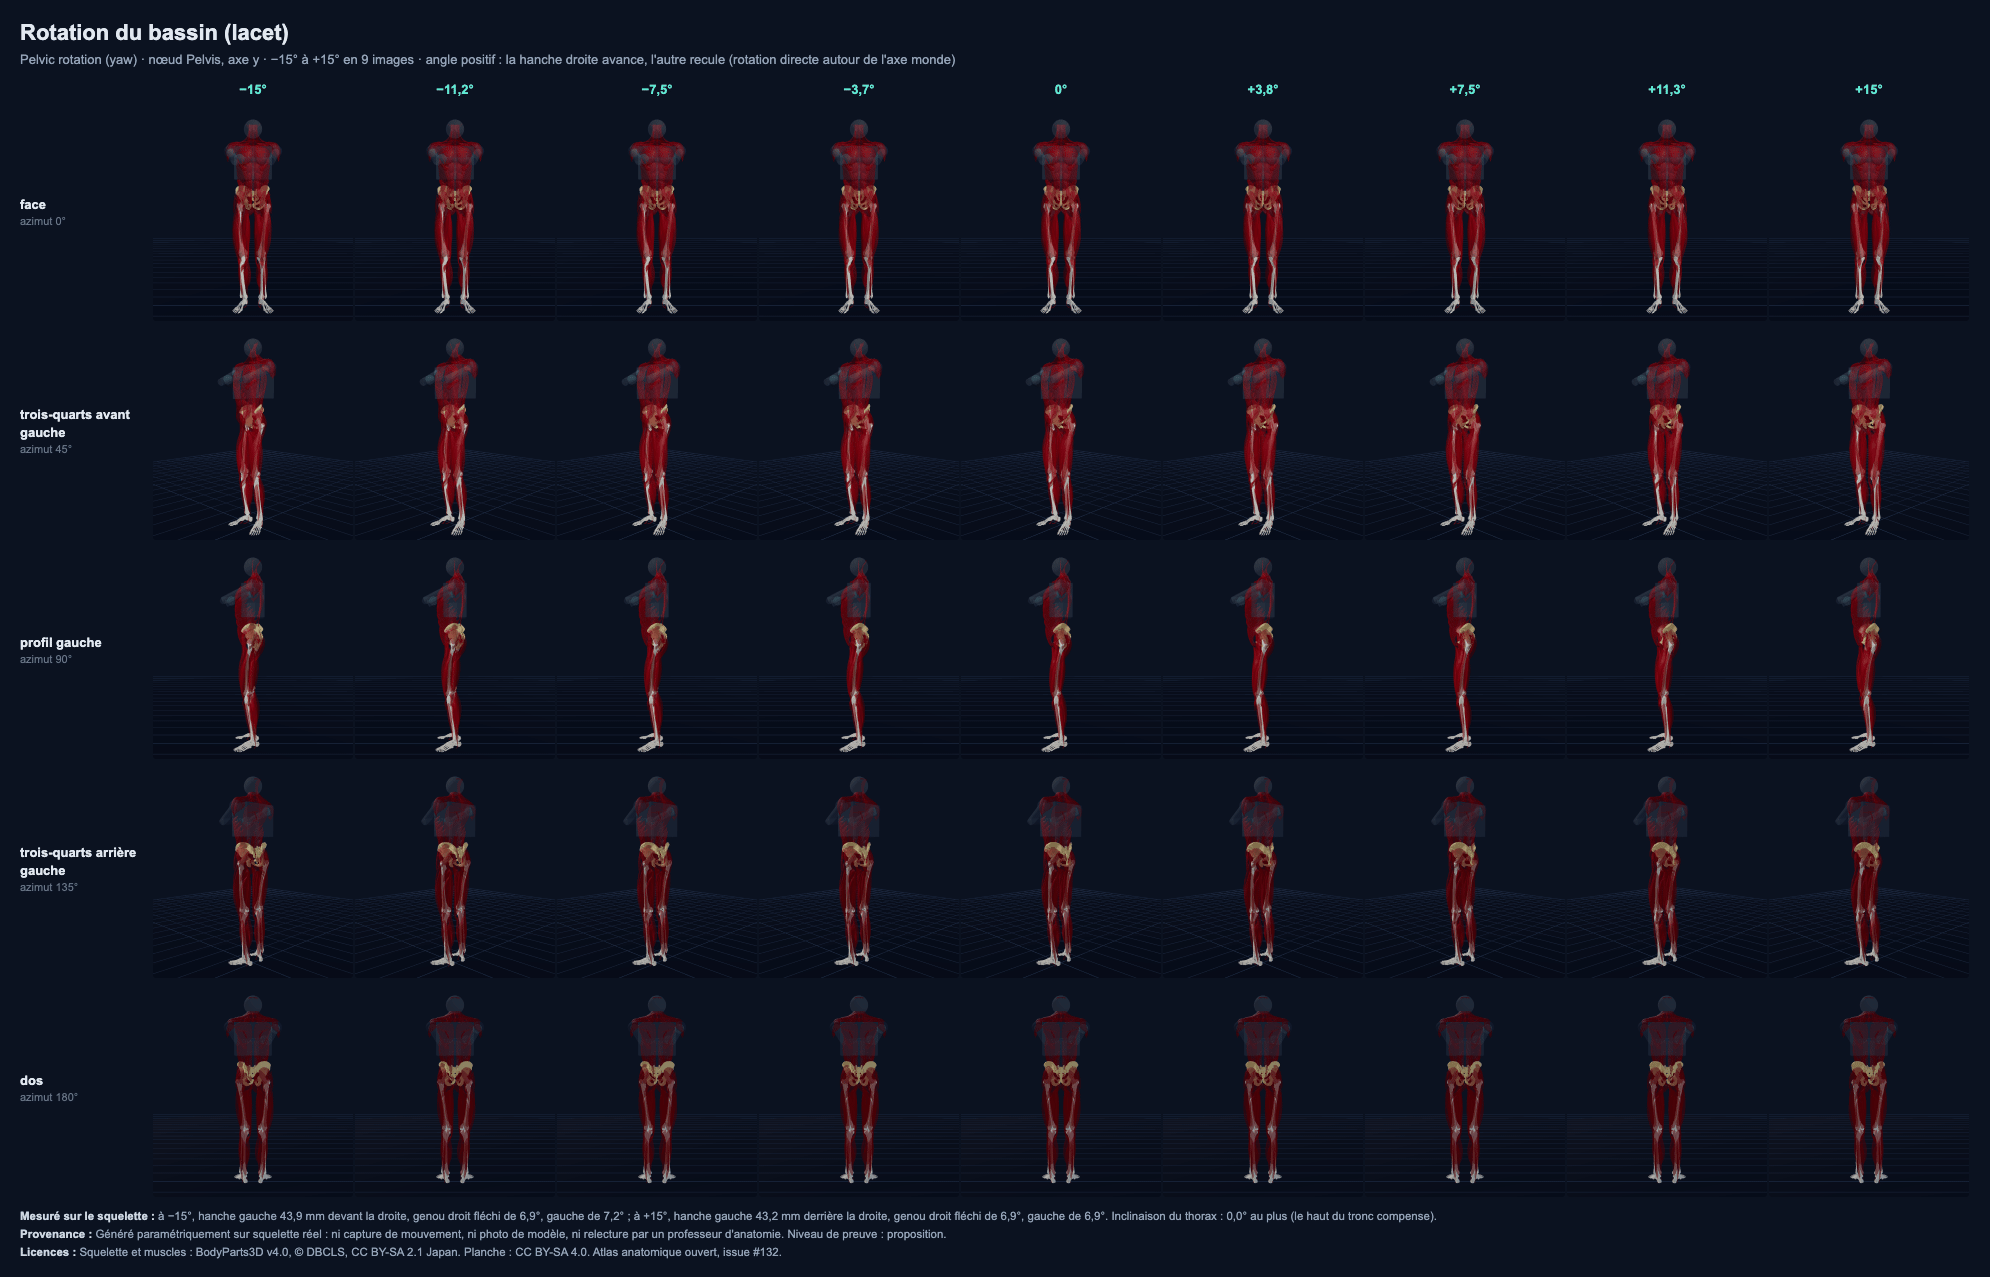
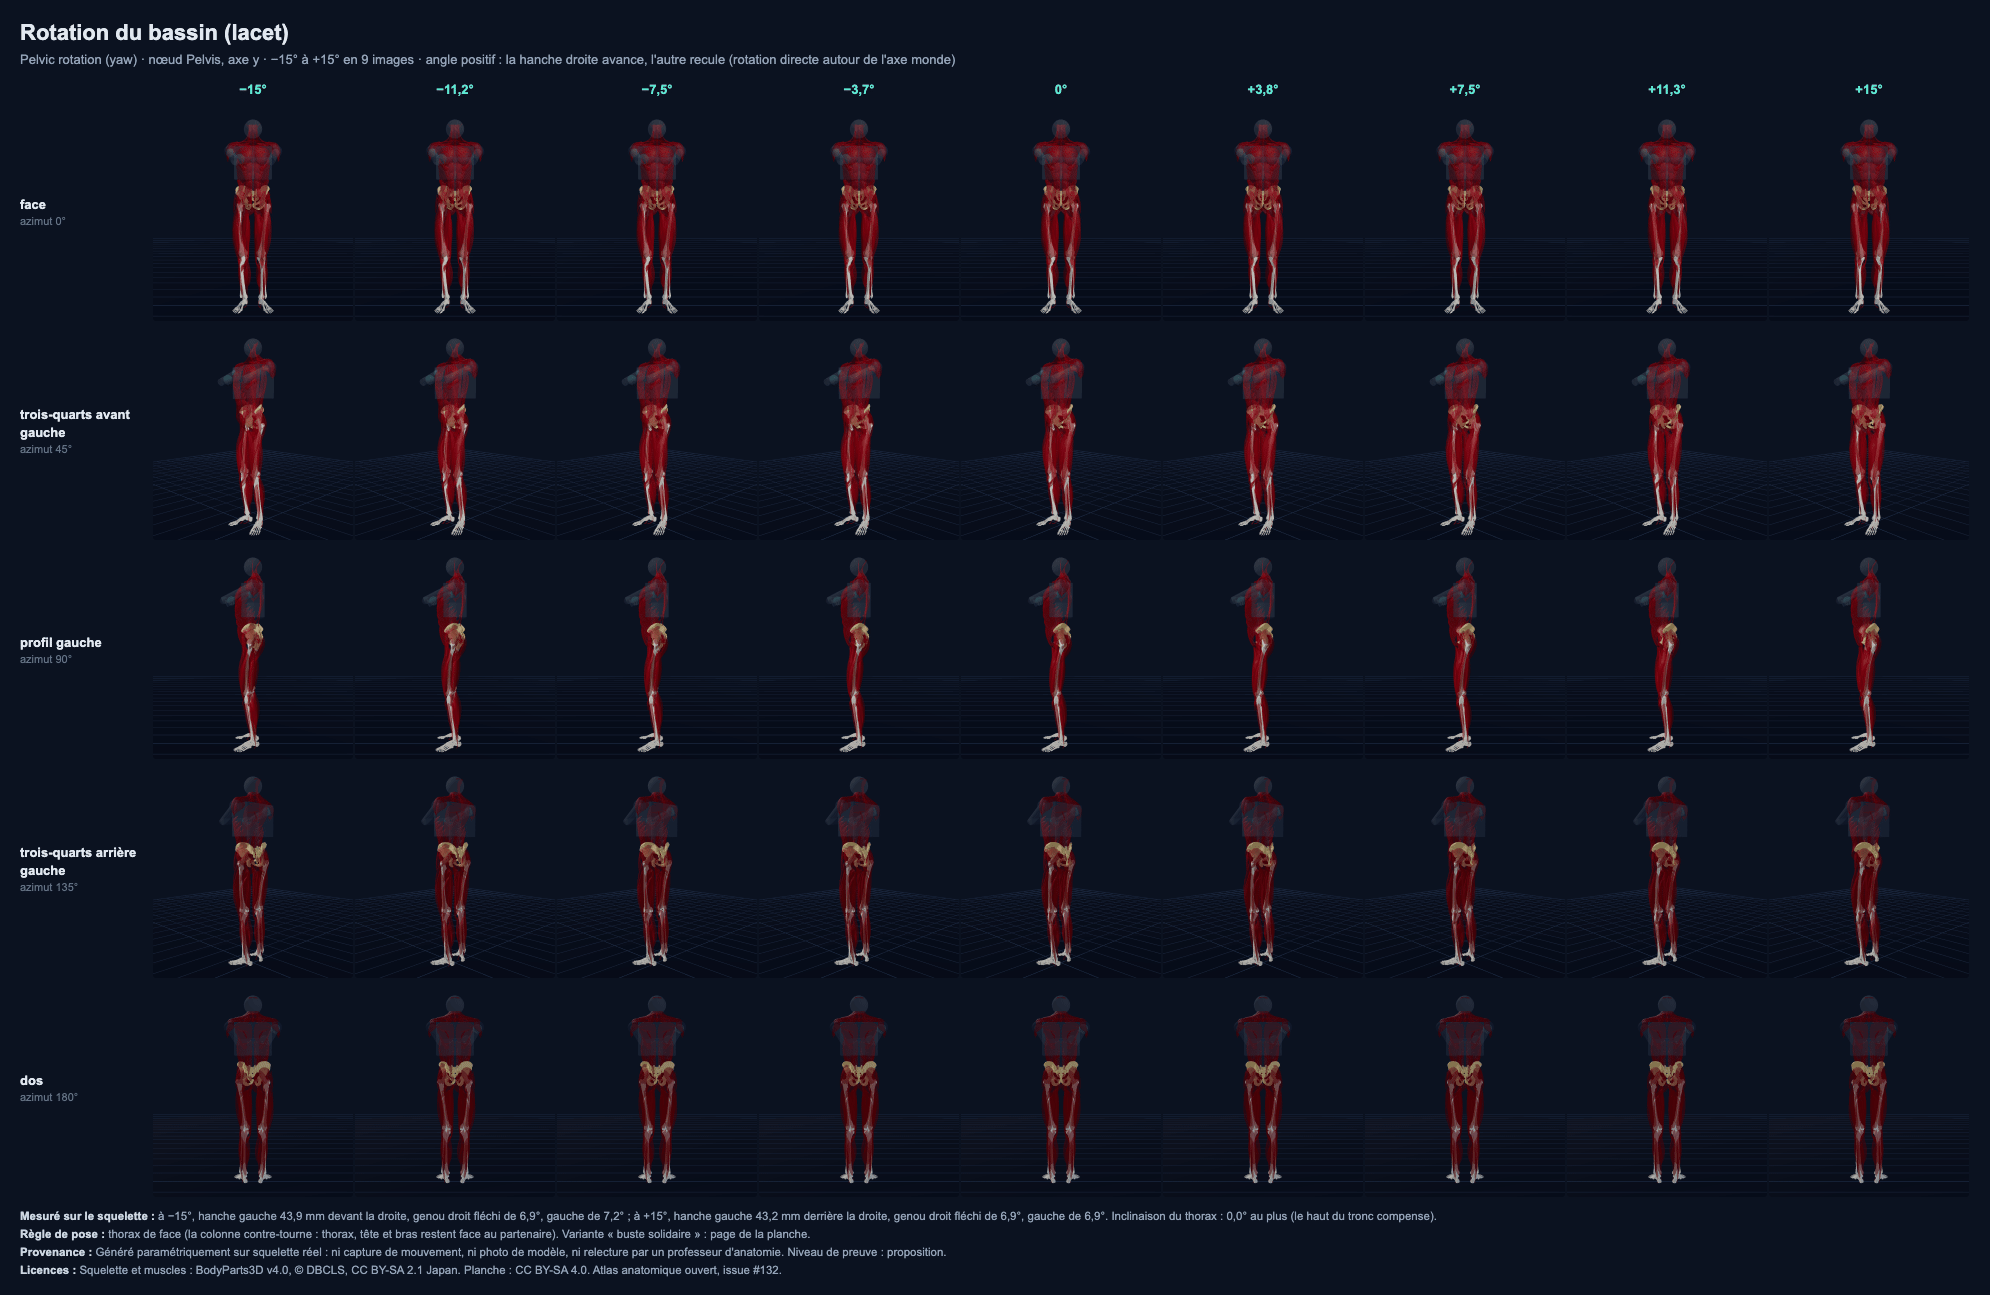
feat(#132): élection de la rotation du bassin, thorax de face (A) ou buste solidaire (B)
Variante « solidaire » dans applyAtlasPose (pas de contre-rotation de la
colonne), mesure thoraxLacetDeg, présentation du GIF propre à chaque
élection, GIF docs/gifs/election-rotation-buste.gif, page
docs/elections/rotation-buste.md, test sur le GLB (section 6). La planche
bassin-rotation garde sa règle ; seuls meta.json, sa page et planche.png
nomment la règle et la variante.

Refs #132

diff --git a/src/atlas.ts b/src/atlas.ts
@@ -53,6 +53,16 @@ export const ATLAS_ELECTIONS: Record<string, AtlasElection> = {
     // Vote du propriétaire, 21 novembre 2026 : « pour la danse on veut B ».
     retenue: "chevauchement",
   },
+  "bassin-rotation": {
+    id: "rotation-buste",
+    question: "Rotation du bassin : le buste tourne-t-il avec lui ?",
+    regles: [
+      { id: "thorax-face", lettre: "A", label: "thorax de face", regle: "la colonne contre-tourne : thorax, tête et bras restent face au partenaire" },
+      { id: "solidaire", lettre: "B", label: "buste solidaire", regle: "pas de contre-rotation : tout le haut du corps tourne avec le bassin" },
+    ],
+    // Règle de la planche depuis D13 ; élection D16 ouverte le 22 novembre 2026, vote attendu.
+    retenue: "thorax-face",
+  },
 };
 /** La règle de pose demandée : la règle retenue sans variante, la règle nommée sinon ; ou la raison du refus.
  * `regle` vaut `null` pour un mouvement sans élection ; `variante` dit si elle diffère de la règle retenue. */
@@ -90,7 +100,7 @@ export function applyAtlasPose(r: RigHandle, model: PoseModel, m: AtlasMouvement
     return applyPose(r, model, 0, {
       neutral: true, amp: 0, travel: 0, plant: true, iso: true, cadre: true,
       pelvisOffset: { position: [0, 0, 0], rotation },
-      trunkOffset: m.axeLocal === "y" ? [0, -radians, 0, 0, 0, 0, 0, 0, 0] : null,
+      trunkOffset: m.axeLocal === "y" && choix.regle?.id !== "solidaire" ? [0, -radians, 0, 0, 0, 0, 0, 0, 0] : null,
       rootOffset: abaissement ? { x: 0, z: 0, y: abaissement } : null,
     });
   };
@@ -139,6 +149,8 @@ export interface AtlasMesure {
   thoraxDeg: number;
   /** Rotation (°) du thorax par rapport à la pose neutre, tous axes confondus. */
   thoraxRotationDeg: number;
+  /** Lacet signé (°) du thorax autour de la verticale monde, par rapport à la pose neutre (D16). */
+  thoraxLacetDeg: number;
   /** Hauteur monde du centre du bassin (mm). */
   bassinMm: number;
 }
@@ -146,6 +158,7 @@ export interface AtlasMesure {
 /** Mesures sur le rig tel que posé par `applyAtlasPose` (matrices monde finales). */
 export function measureAtlasPose(r: RigHandle, m: AtlasMouvement, reference: AtlasReference, stats: PoseStats): AtlasMesure {
   r.root.updateWorldMatrix(true, true);
+  const thorax = r.chest.getWorldQuaternion(new THREE.Quaternion());
   const relative = atlasNode(r, m).getWorldQuaternion(new THREE.Quaternion()).multiply(reference.quaternion.clone().invert());
   if (relative.w < 0) relative.set(-relative.x, -relative.y, -relative.z, -relative.w);
   const v = new THREE.Vector3(relative.x, relative.y, relative.z);
@@ -163,7 +176,11 @@ export function measureAtlasPose(r: RigHandle, m: AtlasMouvement, reference: Atl
     sacrum: [sacrum.x, sacrum.y, sacrum.z],
     genouDeg: { R: stats.kneeR, L: stats.kneeL },
     thoraxDeg: stats.trunkTilt,
-    thoraxRotationDeg: r.chest.getWorldQuaternion(new THREE.Quaternion()).angleTo(reference.thorax) * 180 / Math.PI,
+    thoraxRotationDeg: thorax.angleTo(reference.thorax) * 180 / Math.PI,
+    thoraxLacetDeg: (() => {
+      const q = thorax.clone().multiply(reference.thorax.clone().invert());
+      return 2 * Math.atan2(q.y, q.w) * 180 / Math.PI;
+    })(),
     bassinMm: (r.pelvis as THREE.Object3D).getWorldPosition(new THREE.Vector3()).y * 1000,
   };
 }

diff --git a/docs/elections/rotation-buste.md b/docs/elections/rotation-buste.md
@@ -1,0 +1,78 @@
+# Élection — rotation du bassin : thorax de face ou buste solidaire (#132)
+
+[Accueil](../../README.md) · [Atlas anatomique](../atlas/README.md) · [Spécification, D16](../spec-atlas-anatomique.md) ·
+[Planche](../atlas/mouvements/bassin-rotation/README.md) ·
+[Élection précédente : obliquité](obliquite-genoux.md) ·
+[Issue #132](https://github.com/arcodange-org/dance-hips-movement-3D-comparison/issues/132)
+
+Même format que l'élection de l'obliquité : les deux règles côte à côte dans un seul GIF, même
+caméra, même angle de bassin. Préparée avec l'accord du propriétaire (« Oui », 22 novembre 2026).
+
+**Vote attendu.** Tant qu'il n'est pas rendu, la planche reste posée en A.
+
+## La question
+
+Debout, pieds à plat, le bassin tourne autour de la verticale, de −15° à +15° : une hanche avance,
+l'autre recule. Que fait le buste ?
+
+![A, thorax de face, et B, buste solidaire, côte à côte](../gifs/election-rotation-buste.gif)
+
+| A — thorax de face (la planche aujourd'hui) | B — buste solidaire |
+| --- | --- |
+| Le dos se tord : le thorax, la tête et les bras restent face au partenaire. | Le dos ne se tord pas : tout le haut du corps tourne avec le bassin. |
+| Seul le bassin tourne, sous un buste immobile. | Le cadre des bras tourne de 15° avec les hanches. |
+| Les hanches et le dos se partagent la rotation. | Les hanches absorbent seules la rotation, pieds plantés. |
+
+Sous chaque colonne : de combien le bassin a tourné, de combien le thorax a tourné par rapport à la
+pose de départ, et la torsion du dos (la différence des deux).
+
+## Mesures sur le squelette
+
+| Bassin | A : thorax tourné | A : torsion du dos | B : thorax tourné | B : torsion du dos | Hanche gauche (A et B) |
+| --- | --- | --- | --- | --- | --- |
+| −15° | 0° | 15° | 15° | 0° | 43,9 mm devant la droite |
+| −7,5° | 0° | 7,5° | 7,5° | 0° | 22,3 mm devant |
+| 0° | 0° | 0° | 0° | 0° | 0,4 mm devant |
+| +7,5° | 0° | 7,5° | 7,5° | 0° | 21,6 mm derrière |
+| +15° | 0° | 15° | 15° | 0° | 43,2 mm derrière |
+
+- Le bassin, les hanches, les genoux (6,9° à 7,2°) et les pieds sont les mêmes dans les deux règles.
+  Seul le haut du corps change.
+- En B, le thorax ne tourne qu'autour de la verticale : il ne penche ni ne bascule.
+
+## Ma proposition
+
+**A.** L'objectif premier du projet est de voir les isolations du bas du corps : le bassin bouge,
+le haut du tronc reste posé. En couple, le cadre des bras garde le contact face au partenaire
+pendant que les hanches tournent dessous. Le prix : le dos se tord de 15° aux bornes.
+
+C'est mon avis sur le modèle, pas un fait d'anatomie : aucune des deux règles n'est mesurée sur
+une personne, et le modèle ne dit pas comment une colonne réelle répartit la torsion entre ses
+vertèbres.
+
+## Ce que le choix entraîne
+
+Écrit avant le vote :
+
+- **A élu** : rien ne change. La variante B et ce GIF restent montrés sur la planche.
+- **B élu** : B devient la règle de la planche `bassin-rotation`. La planche est régénérée (53
+  fichiers) et ses limites disent que le buste tourne avec le bassin. A reste montrée en variante.
+
+Le comparateur des styles n'est pas modifié par ce vote ; il est seulement noté dans les règles du
+propriétaire.
+
+## Ce que valent ces images
+
+- Les deux règles passent les mêmes contrôles sur le squelette réel
+  (`scripts/test_atlas_planches.mjs`) : même angle de bassin, mêmes hanches, pieds plantés, os
+  au-dessus du sol ; en A le thorax reste immobile, en B il tourne exactement avec le bassin.
+- Voir dans l'app : A, la règle de la planche, `?atlas=bassin-rotation` ; B, la variante,
+  `?atlas=bassin-rotation&variante=solidaire` (ajouter `&vue=troisQuarts` ou `&frame=0` à `8`).
+- Refaire le GIF : `npm run build && node scripts/capture_atlas.mjs --mouvement bassin-rotation --variante solidaire`.
+- Squelette et muscles : BodyParts3D v4.0, © DBCLS, CC BY-SA 2.1 Japan. Images générées
+  paramétriquement : ni capture de mouvement, ni photo de modèle, ni relecture par un professeur
+  d'anatomie.
+
+## Résultat
+
+À venir : le vote et le commentaire du propriétaire, recopiés mot pour mot.

diff --git a/docs/atlas/mouvements/bassin-rotation/README.md b/docs/atlas/mouvements/bassin-rotation/README.md
@@ -34,6 +34,14 @@ Mesures prises sur le GLB réel posé par le moteur de l'application, hors navig
 
 Hanche : avancée du centre articulaire gauche par rapport au droit (positif : gauche devant). Genou : flexion, 0° = jambe tendue. Thorax : inclinaison par rapport à la verticale.
 
+## Règle de pose et variante
+
+- Règle de la planche : **thorax de face** (A). La colonne contre-tourne : thorax, tête et bras restent face au partenaire.
+- Variante : buste solidaire (B). Pas de contre-rotation : tout le haut du corps tourne avec le bassin. Dans l'application : `?atlas=bassin-rotation&vue=face&frame=4&frames=9&muscles=1&variante=solidaire`.
+- Choix du propriétaire : [élection](../../../../docs/elections/rotation-buste.md).
+
+![Rotation du bassin : le buste tourne-t-il avec lui ?](../../../../docs/gifs/election-rotation-buste.gif)
+
 ## Vues animées
 
 | Face | Trois-quarts avant gauche | Profil gauche | Trois-quarts arrière gauche | Dos |
@@ -48,7 +56,7 @@ Vue en direct dans l'application : `?atlas=bassin-rotation&vue=face&frame=4&fram
 - Illustratif : aucune validation médicale ni chorégraphique.
 - Pose neutre du moteur : pieds à l'écartement et à l'ouverture natifs du squelette, genoux fléchis d'au moins 0,12 rad par l'IK (jambe jamais verrouillée).
 - Bassin en chaîne fermée, pieds plantés : les pieds ne pivotent pas, les hanches absorbent la rotation.
-- Le thorax reste de face parce que la colonne contre-tourne du même angle. C'est une règle propre à l'atlas : l'isolation du comparateur compense le roulis et le tangage du bassin, pas le lacet.
+- Le thorax reste de face parce que la colonne contre-tourne du même angle. C'est une règle propre à l'atlas : l'isolation du comparateur compense le roulis et le tangage du bassin, pas le lacet. La variante « buste solidaire », où tout le haut du corps tourne avec le bassin, est montrée dans la section « Règle de pose et variante » ; le choix revient au propriétaire.
 - Buste et bras : volumes stylisés, pas un maillage anatomique. Le haut du tronc compense le bassin (iso=1), bras en cadre de danse.
 
 ## Licences

diff --git a/docs/TASKS.md b/docs/TASKS.md
@@ -309,7 +309,7 @@ Réf : `docs/retrospective-phase3-5.md` (pièges, raccourcis à tort, process am
   - [x] Mesures ajoutées à `meta.json` (avancée des hanches, sacrum, rotation du thorax tous axes), repère de position et limites par axe ; `bassin-obliquite` recalculée par `--meta-seul`.
   - [x] Test : deux vecteurs liés au bassin en rotation rigide, repère et signe par planche, axe erroné détecté, thorax immobile sur les trois axes.
 - [ ] Élection par le propriétaire, rotation du bassin : thorax de face (versionné, proposition) ou buste solidaire du bassin (GIF des deux variantes montrés le 21 novembre 2026 ; la variante non retenue n'est pas versionnée).
-  - [ ] Élection en format A/B (D16, accord du 22 novembre 2026 : « Oui ») : variante `solidaire` dans le moteur, GIF `docs/gifs/election-rotation-buste.gif`, page `docs/elections/rotation-buste.md`, test sur le GLB.
+  - [x] Élection en format A/B (D16, accord du 22 novembre 2026 : « Oui ») : variante `solidaire` dans le moteur, GIF `docs/gifs/election-rotation-buste.gif`, page `docs/elections/rotation-buste.md`, test sur le GLB.
 - [x] Variante « genoux chevauchés » de l'obliquité produite à la demande du propriétaire (« Oui, produis-la », 21 novembre 2026) : [spec D14](spec-atlas-anatomique.md), [page d'élection](elections/obliquite-genoux.md).
   - [x] Branche remise à jour sur `main` (troisième et quatrième fusions, sans réécriture d'historique).
   - [x] `applyAtlasPose(…, variante)` dans `src/atlas.ts` ; vue `?atlas=bassin-obliquite&variante=<règle>`. Sans variante, URL et clé de rendu inchangées.

diff --git a/CONTEXT.md b/CONTEXT.md
@@ -63,10 +63,14 @@ jambes ne bougent pas).
   8 », lisible dans les trois plans, alors que chaque planche fait un aller-retour sur un axe. Le
   « 8 » est le chantier #159 (PR #160, sa propre élection) : l'atlas n'en produit pas de planche.
   Le vote B lui a été transmis ; dans l'atlas, « relais » nomme la règle non retenue.
-- Une élection attend encore le propriétaire. Rotation : thorax de face (versionné) ou buste
-  solidaire (GIF montrés, non versionnés).
-- `main` a été fusionné cinq fois dans la branche (conflits : `package.json`, `README.md`,
-  `docs/TASKS.md`, `CONTEXT.md`, `src/main.tsx`, `src/pose.ts` ; garder les deux côtés). Dans
+- **Rotation : élection ouverte, vote attendu** (D16, accord du 22 novembre 2026 : « Oui »). A thorax
+  de face (règle de la planche, ma proposition) ou B buste solidaire, variante
+  `?atlas=bassin-rotation&variante=solidaire`, GIF `docs/gifs/election-rotation-buste.gif`, page
+  [`docs/elections/rotation-buste.md`](docs/elections/rotation-buste.md). Mesure `thoraxLacetDeg`
+  ajoutée au module (non sérialisée). Présentation du GIF propre à chaque élection
+  (`PRESENTATIONS` dans `scripts/capture_atlas.mjs`).
+- `main` a été fusionné six fois dans la branche (conflits : `package.json`, `README.md`,
+  `docs/TASKS.md`, `CONTEXT.md`, `src/main.tsx`, `src/pose.ts`, `docs/regles-proprietaire.md` ; garder les deux côtés). Dans
   `src/pose.ts`, l'option `neutral` de l'atlas et le ginga de #157 s'ajoutent au même endroit.
 
 Suite : règles de pose des 13 autres mouvements (le script les refuse pour l'instant), décision sur

diff --git a/docs/spec-atlas-anatomique.md b/docs/spec-atlas-anatomique.md
@@ -453,6 +453,15 @@ n'est pas versionnée. Le choix revient au propriétaire. »
   B élu : B devient la règle de `bassin-rotation`, la planche est régénérée et ses limites le disent.
 - **Limite.** Aucune des deux règles n'est mesurée sur une personne ; le modèle ne dit pas comment
   une colonne réelle répartit une torsion entre ses vertèbres.
+- **Résultat (2026-11-22).** Mesuré sur le GLB, 17 images : en A le thorax reste dans son
+  orientation neutre ; en B son lacet suit l'angle du bassin à moins de 0,01° près (15,0° aux
+  bornes) et il ne tourne qu'autour de la verticale. Hanches (43,9 mm devant à 43,2 mm derrière),
+  genoux (6,9° à 7,2°) et pieds identiques dans les deux règles. GIF : 36 images, 678 × 1438 px,
+  2,8 Mo, corps entier, vues de face et de trois-quarts. La planche `bassin-rotation` gagne le champ
+  `regle` dans `meta.json`, une section « Règle de pose et variante » dans sa page et une ligne dans
+  le pied de `planche.png` ; ses 45 images et 5 GIF sont identiques à l'octet. La limite « thorax de
+  face » de la planche est devenue celle de la règle (`LIMITES_REGLE`), texte inchangé, avec un
+  renvoi à la variante.
 
 ### Lien avec le ginga : le « 8 » du bassin (#157, #159)
 

diff --git a/docs/atlas/README.md b/docs/atlas/README.md
@@ -27,7 +27,7 @@ dansants (roulis du bassin, isolations, compensation du tronc).
 | Mouvement | Planche | État |
 | --- | --- | --- |
 | Obliquité du bassin (roulis) | [bassin-obliquite](mouvements/bassin-obliquite/README.md) | générée, mesurée sur le GLB ; genoux chevauchés, bassin à hauteur constante ([élu par le propriétaire](../elections/obliquite-genoux.md)) ; variante « genoux en relais » montrée sur la page |
-| Rotation du bassin (lacet) | [bassin-rotation](mouvements/bassin-rotation/README.md) | générée, mesurée sur le GLB ; thorax de face (variante buste solidaire : au choix du propriétaire) |
+| Rotation du bassin (lacet) | [bassin-rotation](mouvements/bassin-rotation/README.md) | générée, mesurée sur le GLB ; thorax de face ; variante « buste solidaire » montrée sur la page ([élection ouverte](../elections/rotation-buste.md), vote attendu) |
 | Antéversion / rétroversion du bassin | [bassin-anteversion](mouvements/bassin-anteversion/README.md) | générée, mesurée sur le GLB |
 | Hanche, genou, cheville, tronc (13 mouvements) | à venir | règle de pose à écrire (chaîne ouverte, buste) : le script les refuse pour l'instant |
 

diff --git a/README.md b/README.md
@@ -27,6 +27,7 @@ Planches du bassin : [obliquité](docs/atlas/mouvements/bassin-obliquite/README.
 [antéversion](docs/atlas/mouvements/bassin-anteversion/README.md) (−15° à +15°). Chacune : 5 vues,
 9 images, mesures prises sur le squelette (`?atlas=bassin-obliquite` dans l'application).
 Obliquité : genoux chevauchés, [élus par le propriétaire](docs/elections/obliquite-genoux.md) ; les genoux en relais restent montrés en variante.
+Rotation : thorax de face ou buste solidaire, [élection ouverte](docs/elections/rotation-buste.md).
 Squelette et muscles : BodyParts3D v4.0, © DBCLS, CC BY-SA 2.1 Japan ; planche générée
 paramétriquement, sans capture de mouvement ni photo de modèle.
 
